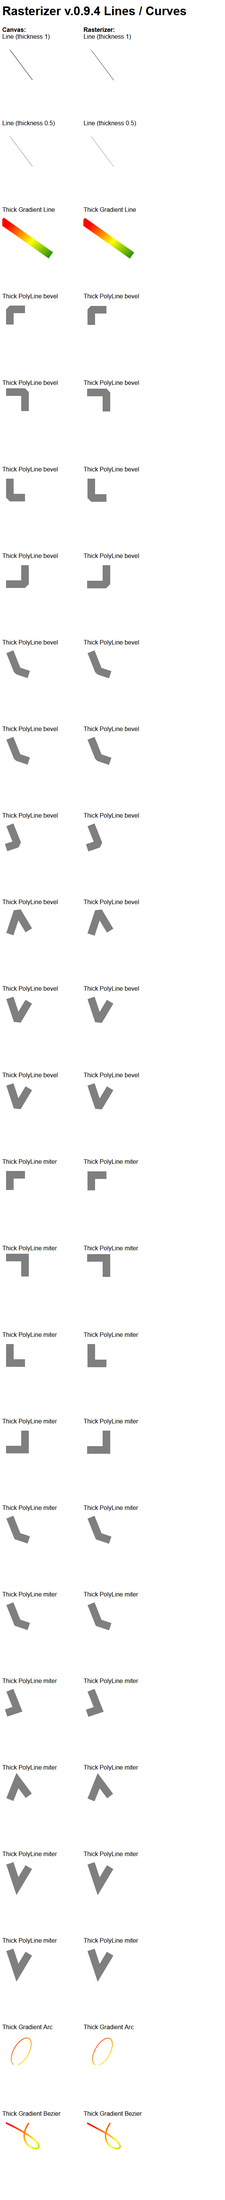
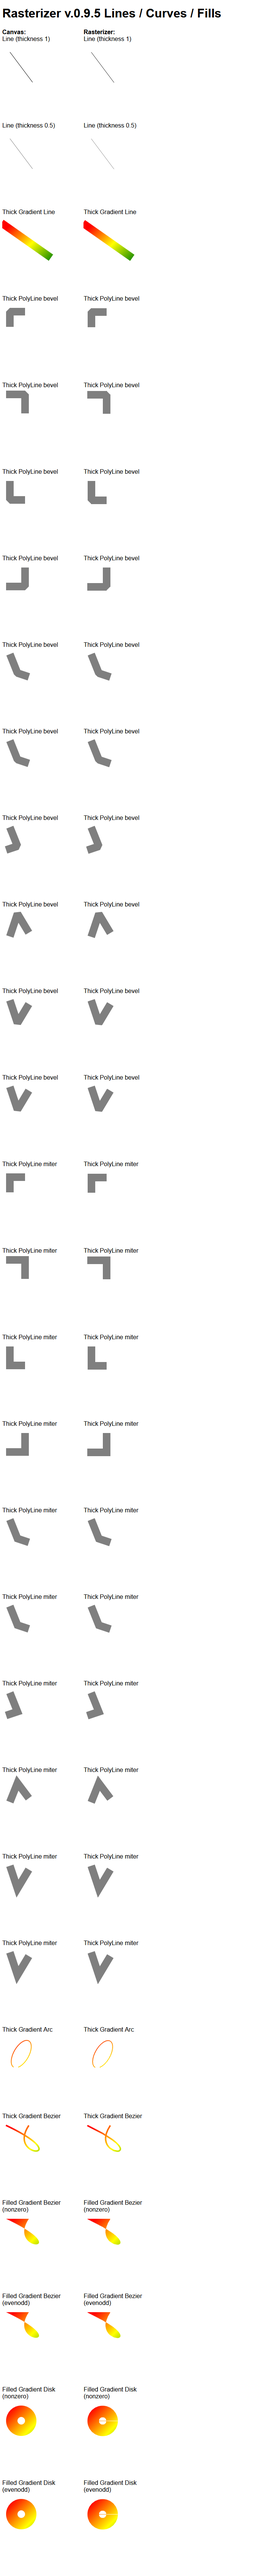
v.0.9.5, update tests

diff --git a/src/Rasterizer.js b/src/Rasterizer.js
@@ -1159,7 +1159,7 @@ function fill_path(set_pixel, rule, path, xmin, ymin, xmax, ymax)
         {
             console.log('range', y, xm, xM, edg.slice(0, k));
         }
-        if (2 > k-c) {console.log('k', y, i, k, c); continue;}
+        if (c+2 > k) {console.log('k', y, i, k, c); continue;}
         xm = stdMath.max(xmin, stdMath.round(xm + 0.5));
         xM = stdMath.min(xmax, stdMath.round(xM - 0.5));
         if (xm > xM)

diff --git a/test/lines.html b/test/lines.html
@@ -26,7 +26,7 @@ h4 {
 }
 </style>
 </head><body>
-<h1>Rasterizer <span id="ver"></span> Lines / Curves</h1>
+<h1>Rasterizer <span id="ver"></span> Lines / Curves / Fills</h1>
 <div id="test1" class="canvas">
 <b>Canvas:</b><br/>
 </div>

diff --git a/README.md b/README.md
@@ -18,5 +18,9 @@ Rasterize, draw and fill lines, rectangles and curves. Even without canvas.
 
 ![gradient bezier](/bezier.png)
 
+![gradient fill bezier nonzero](/fill-nonzero.png)
+
+![gradient fill bezier evenodd](/fill-evenodd.png)
+
 ![all tests](/all.png)
 
